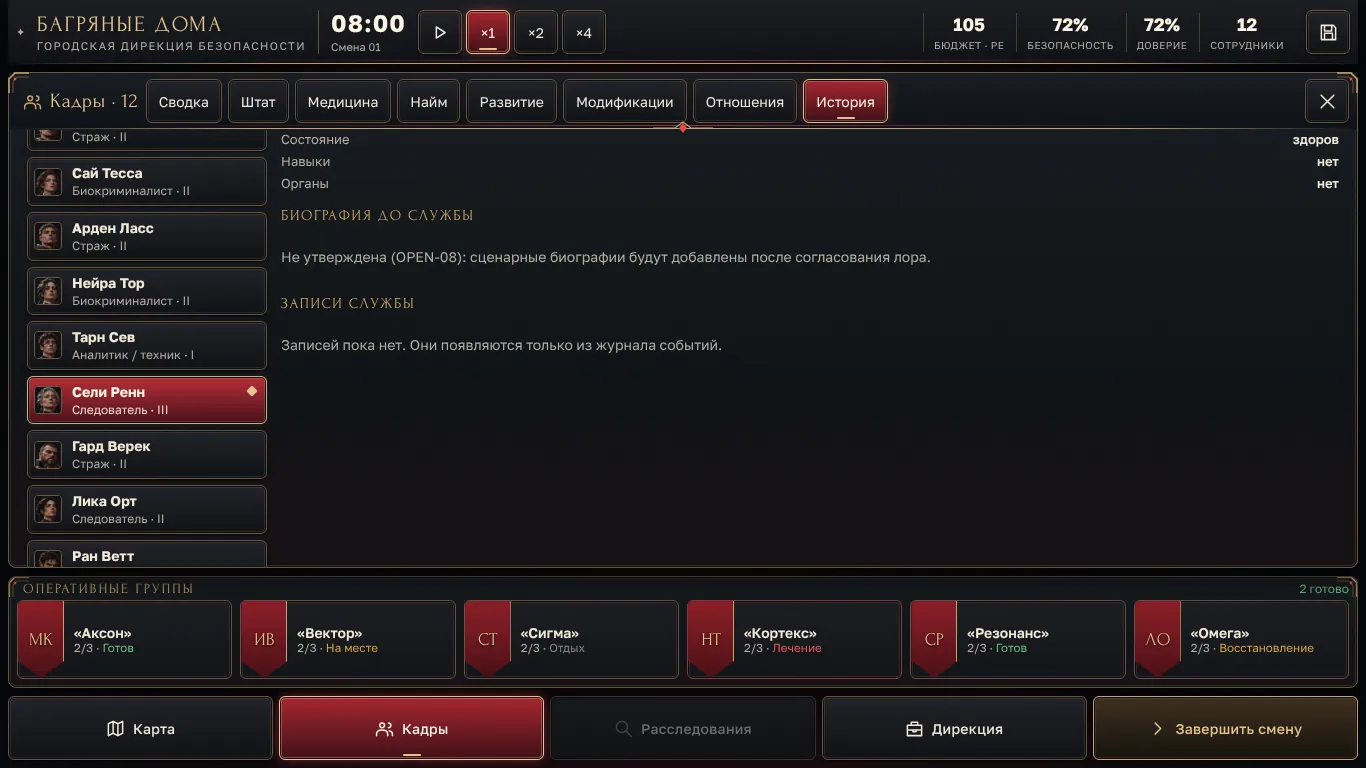
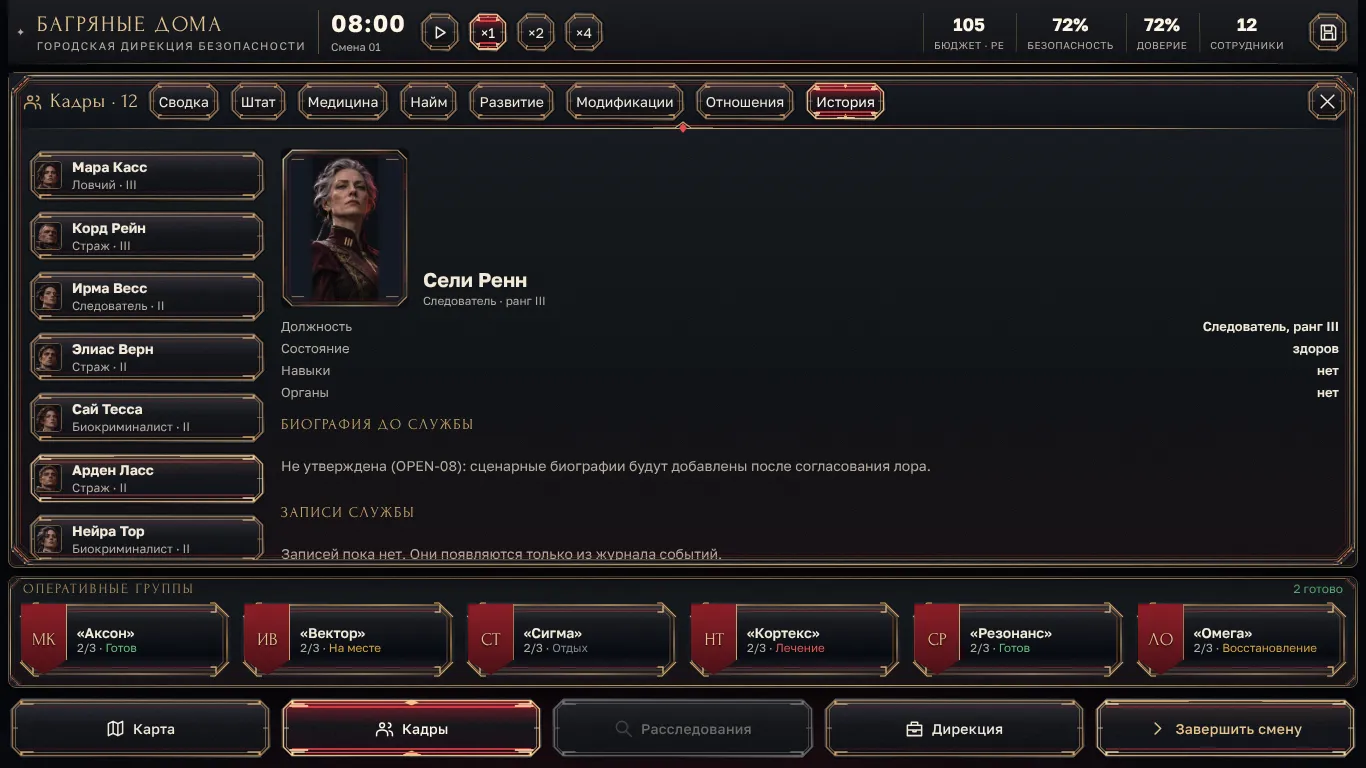
ART-008: утверждённые PNG UI-kit v2 в интерфейсе
- src/ui/kit-png.css: 5 состояний кнопок, рамка панелей и окон, рамка карточки
  отряда, рамка портрета. 9-slice через border-image на псевдоэлементе, размеры
  и зона касания кнопок не меняются; на телефоне рамки тоньше.
- Шапка, навершие, стяги отрядов и герб на отдельной приёмке, не подключены.
- Тест: CSS использует только одобренные файлы. manifest: integrated.

Claude-Session: https://claude.ai/code/session_01EQQkK19Xp4dXPmCE6QbHJo

Changed region(s): [[0.0, 0.0, 1.0, 1.0]]

diff --git a/src/ui/kit-png.css b/src/ui/kit-png.css
@@ -1,0 +1,97 @@
+/*
+ * ART-008: утверждённые PNG UI-kit v2 поверх CSS-версии (theme.css).
+ * Подключены только одобренные владельцем файлы (docs/art/ART008_UIKIT_V2_HANDOFF.md):
+ * 5 состояний кнопки, рамка панели, рамка карточки отряда, рамка портрета.
+ * Шапка, навершие, стяги и герб ждут отдельной приёмки и здесь не используются.
+ * Файлы нарисованы в 2×: slice в пикселях файла, ширина рамки на экране — половина или меньше.
+ * Рисунок кладётся псевдоэлементом под текст, поэтому размеры и зона касания кнопок не меняются.
+ */
+:root {
+  --kit-btn: url('../../assets/ui/kit_v2/btn_default_9s.png');
+  --kit-btn-hover: url('../../assets/ui/kit_v2/btn_hover_9s.png');
+  --kit-btn-pressed: url('../../assets/ui/kit_v2/btn_pressed_9s.png');
+  --kit-btn-selected: url('../../assets/ui/kit_v2/btn_selected_9s.png');
+  --kit-btn-disabled: url('../../assets/ui/kit_v2/btn_disabled_9s.png');
+  --kit-panel: url('../../assets/ui/kit_v2/panel_frame_9s.png');
+  --kit-squad: url('../../assets/ui/kit_v2/squad_card_9s.png');
+  --kit-portrait: url('../../assets/ui/kit_v2/portrait_frame.png');
+}
+
+/* ---------- Кнопки ---------- */
+.btn {
+  isolation: isolate;
+  border-color: transparent;
+  background: none;
+  box-shadow: none;
+}
+.btn::before {
+  content: ''; position: absolute; inset: 0; z-index: -1; pointer-events: none;
+  border-style: solid; border-width: 12px;
+  border-image: var(--kit-btn) 24 fill / 12px / 0 stretch;
+}
+.btn:hover:not(:disabled) { background: none; border-color: transparent; box-shadow: none; }
+.btn:hover:not(:disabled)::before { border-image-source: var(--kit-btn-hover); }
+.btn:active:not(:disabled) { background: none; border-color: transparent; box-shadow: none; }
+.btn:active:not(:disabled)::before { border-image-source: var(--kit-btn-pressed); }
+.btn[aria-pressed='true'], .btn[aria-current='page'], .btn[aria-selected='true'], .btn.primary,
+.layer-tools .btn[aria-pressed='true'],
+.btn[aria-pressed='true']:hover:not(:disabled), .btn[aria-current='page']:hover:not(:disabled), .btn[aria-selected='true']:hover:not(:disabled),
+.btn.primary:hover:not(:disabled) { background: none; border-color: transparent; box-shadow: none; }
+.btn[aria-pressed='true']::before, .btn[aria-current='page']::before, .btn[aria-selected='true']::before, .btn.primary::before {
+  border-image-source: var(--kit-btn-selected);
+}
+.btn[aria-pressed='true']:hover:not(:disabled)::before, .btn[aria-current='page']:hover:not(:disabled)::before,
+.btn[aria-selected='true']:hover:not(:disabled)::before, .btn.primary:hover:not(:disabled)::before {
+  border-image-source: var(--kit-btn-selected); filter: brightness(1.12);
+}
+.btn:disabled { background: none; border-color: transparent; box-shadow: none; }
+.btn:disabled::before { border-image-source: var(--kit-btn-disabled); }
+.btn.danger { border-color: transparent; }
+.layer-tools .btn, .zoom-tools .btn, .map-tools .btn { background: none; }
+.nav .btn.end-shift { background: none; border-color: transparent; }
+.nav .btn.end-shift::before { border-image-source: var(--kit-btn-hover); }
+.nav .btn.end-shift:hover:not(:disabled)::before { filter: brightness(1.15); }
+
+/* ---------- Карточки отрядов (лента внизу; маркеры на карте не трогаем) ---------- */
+.squad-list .squad, .squad-list .squad:hover:not(:disabled), .squad-list .squad.selected,
+.squad-list .squad[aria-pressed='true'], .squad-list .squad.tone-red {
+  border-color: transparent; box-shadow: none; background: none; isolation: isolate;
+}
+.squad-list .squad::before {
+  content: ''; position: absolute; inset: 0; z-index: -1; pointer-events: none;
+  border-style: solid; border-width: 16px;
+  border-image: var(--kit-squad) 32 fill / 16px / 0 stretch;
+}
+.squad-list .squad:hover:not(:disabled)::before { filter: brightness(1.12); }
+.squad-list .squad.selected::before, .squad-list .squad[aria-pressed='true']::before { filter: drop-shadow(0 0 6px #e84c5099) brightness(1.18); }
+.squad-list .squad .monogram { margin: 3px 0 3px 3px; }
+@media (max-height: 560px) {
+  .squad-list .squad { padding-left: 12px; }
+  .squad-list .squad::before { border-width: 8px; border-image-width: 8px; }
+}
+
+/* ---------- Рамка панелей и окон (рисунок поверх края, середина прозрачная) ---------- */
+.panel::after, .modal::after {
+  content: ''; position: absolute; inset: 0; z-index: 3; pointer-events: none; transform: none;
+  width: auto; height: auto; background: none;
+  border-style: solid; border-width: 24px;
+  border-image: var(--kit-panel) 96 / 24px / 0 stretch;
+}
+.panel::before { display: none; }
+.modal { position: relative; }
+
+/* ---------- Рамка портрета в досье ---------- */
+.portrait.lg { box-sizing: border-box; padding: 7px; border: 0; box-shadow: none; background: #0b0d11; }
+.portrait.lg img { border-radius: 2px; }
+.portrait.lg::before {
+  content: ''; position: absolute; inset: 0; z-index: 1; pointer-events: none;
+  background: var(--kit-portrait) center / 100% 100% no-repeat;
+}
+.portrait.lg.dead::after { z-index: 2; }
+.portrait.lg .portrait-mark { z-index: 2; left: 7px; right: 7px; bottom: 7px; }
+
+/* Двухстрочные кнопки выбора: текст не ложится на внутренний кант рисунка. */
+.btn.pick { padding-top: 9px; padding-bottom: 9px; }
+/* Узкая лента отрядов: тоньше рамка, чтобы не лечь на заголовок «Оперативные группы». */
+.squads.panel::after { border-width: 12px; border-image-width: 12px; }
+.squads .panel-header { padding-left: 14px; padding-right: 14px; }

diff --git a/tests/unit/portraits.test.ts b/tests/unit/portraits.test.ts
@@ -28,3 +28,21 @@ describe('ART-005 портреты', () => {
     }
   });
 });
+
+/** ART-008: в CSS подключены только одобренные файлы; неутверждённые (шапка, стяги, герб) не используются. */
+describe('ART-008 UI-kit PNG', () => {
+  const css = readFileSync('src/ui/kit-png.css', 'utf8');
+  const kit = manifest.assets.filter((a) => a.file.includes('/kit_v2/'));
+  it('каждый файл из CSS существует и одобрен', () => {
+    const used = [...css.matchAll(/kit_v2\/([\w]+\.png)/g)].map((m) => m[1]!);
+    expect(used.length).toBeGreaterThanOrEqual(8);
+    for (const f of used) {
+      const a = kit.find((x) => x.file.endsWith(f))!;
+      expect(existsSync(a.file)).toBe(true);
+      expect(a.status).toBe('integrated');
+    }
+  });
+  it('файлы на приёмке в CSS не попали', () => {
+    for (const a of kit.filter((x) => x.status === 'review')) expect(css).not.toContain(a.file.split('/').pop()!);
+  });
+});

diff --git a/src/ui/app.css b/src/ui/app.css
@@ -491,7 +491,7 @@ td.bad { color: var(--bad); }
 .portrait-mark { position: absolute; left: 0; right: 0; bottom: 0; padding: 1px 2px; font: 600 9px/1.3 var(--font-ui); text-align: center; text-transform: uppercase; letter-spacing: .02em; color: #fff; background: rgba(170, 37, 48, .88); }
 .portrait.lg .portrait-mark { font-size: 12px; padding: 3px; }
 .portrait.dead .portrait-mark, .portrait.missing .portrait-mark { background: rgba(0, 0, 0, .8); color: var(--muted); }
-.portrait .monogram { line-height: 1; }
+.portrait-initials { line-height: 1; }
 .btn.pick.with-face { flex-direction: row; align-items: center; justify-content: flex-start; gap: 10px; padding-left: 6px; }
 .btn.pick.with-face .pick-text { display: grid; gap: 2px; min-width: 0; }
 .name-cell { display: inline-flex; align-items: center; gap: 8px; }

diff --git a/tests/e2e/portraits.spec.ts b/tests/e2e/portraits.spec.ts
@@ -29,6 +29,7 @@ test('staff: every starting employee shows a loaded portrait; dossier has a larg
   const big = page.locator('.person-head').getByTestId('portrait-p9');
   await expect(big.locator('img')).toHaveAttribute('alt', 'Портрет: Сели Ренн');
   await expect.poll(() => loaded(big.locator('img'))).toBe(true);
+  await page.locator('.person-head').screenshot({ path: `test-results/screens/art005-head-${info.project.name}.png` });
   expect((await page.getByTestId('person-p9').boundingBox())!.height).toBeGreaterThanOrEqual(44);
   await page.screenshot({ path: `test-results/screens/art005-dossier-${info.project.name}.png` });
 });

diff --git a/src/ui/Portrait.tsx b/src/ui/Portrait.tsx
@@ -34,7 +34,7 @@ export function Portrait({ id, name, health = 'healthy', size = 'sm' }: { id: st
     <span className={cls} data-testid={`portrait-${id}`} aria-hidden={size !== 'lg' || undefined}>
       {src
         ? <img src={src} alt={size === 'lg' ? `Портрет: ${name}` : ''} loading="lazy" decoding="async" draggable={false} />
-        : <span className="monogram">{name.split(/\s+/).map((w) => w[0]).join('').slice(0, 2)}</span>}
+        : <span className="portrait-initials">{name.split(/\s+/).map((w) => w[0]).join('').slice(0, 2)}</span>}
       {mark && <span className="portrait-mark">{mark}</span>}
     </span>
   );

diff --git a/src/main.tsx b/src/main.tsx
@@ -13,6 +13,7 @@ import '@fontsource/forum/latin-400.css';
 import './ui/tokens.css';
 import './ui/app.css';
 import './ui/theme.css';
+import './ui/kit-png.css';
 import { App } from './App';
 import { bootstrap } from './store';
 
